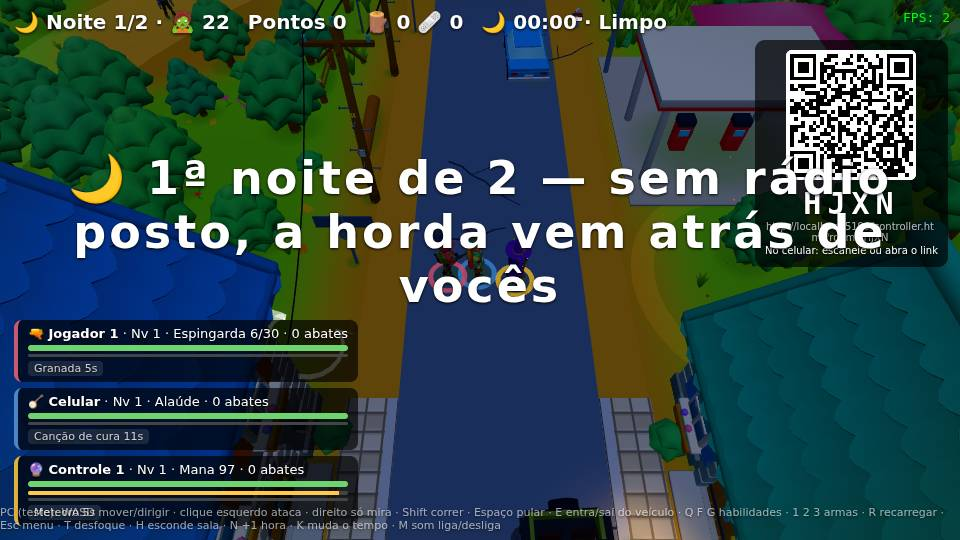
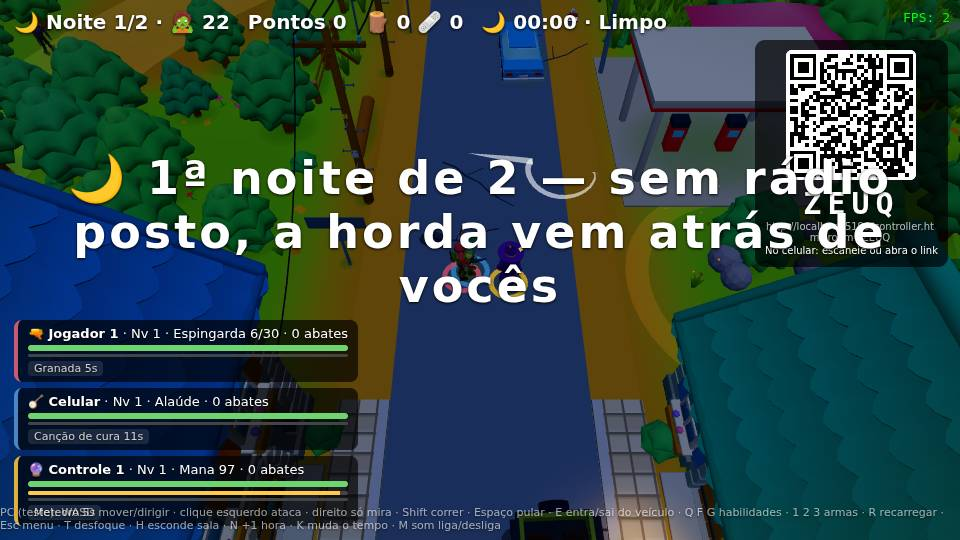
Menu automático: cada aparelho entra sozinho e a vaga só mostra qual é
- Saem os botões "Celular" e "Mouse e teclado"; vaga vazia mostra "Livre"
- Celular pelo QR, teclado/mouse com tecla de jogo (WASD, setas, espaço) ou clique numa área vazia, controle com qualquer botão
- Mexer o mouse ou clicar em botões do menu não cria jogador (decisão do dono); [data-nojoin] para o seletor de cerco
- Smoke: teclado entra com W; controle de mentira segura o botão até o efeito aparecer
- Replay igual

diff --git a/src/engine/ui/lobby.js b/src/engine/ui/lobby.js
@@ -12,7 +12,7 @@ const MARKUP = (sub) => `<div id="lobby">
         <p class="sub">${sub}</p>
         <div id="slots"></div>
         <button id="start" disabled>Adicione um jogador para iniciar</button>
-        <small>Escolha o controle de cada jogador · 🎮 controle de videogame: aperte A · Enter (ou Start) inicia · Esc volta ao menu durante a partida</small>
+        <small>Para entrar: 📱 celular pelo QR · ⌨ uma tecla de jogo (W A S D, setas, espaço) ou um clique fora dos botões · 🎮 qualquer botão do controle · Enter (ou Start) inicia · Esc volta ao menu</small>
       </div>
       <div class="lb-side">
         <canvas id="qr2" width="180" height="180"></canvas>
@@ -59,11 +59,12 @@ function ensureDom(sub) {
   }
 }
 
-// Menu inicial: 4 vagas; cada vaga é "Celular" (entra pelo QR/código), "Mouse e teclado" (jogador local) ou um controle de
-// videogame (entra sozinho quando aperta A: addPad).
+// Menu inicial: 4 vagas. Ninguém escolhe o aparelho: cada um entra sozinho na 1ª vaga livre, na ordem de chegada —
+// celular pelo QR (addPhone), controle de videogame com qualquer botão (addPad) e teclado/mouse com uma tecla de jogo
+// (W A S D, setas, espaço) ou um clique fora dos botões. A vaga mostra o aparelho (📱 ⌨ 🎮), o nome e a opção; ✕ tira.
 // O jogo passa: choices = opções que cada vaga pode escolher com ◀ ▶ (ex.: as classes; a vaga N começa na opção N)
 // · sound(nome, opções) = som da interface · subtitle = frase do menu.
-// Trocar a opção: setas na vaga (mouse), A/D ou ←/→ (teclado, na vaga do teclado), pick(id, ±1) (celular, via jogo).
+// Trocar a opção: setas na vaga (mouse), A/D ou ←/→ (teclado, depois de entrar), pick(id, ±1) (celular e controle, via jogo).
 export function CreateLobby({ onStart, onKick, onChange, choices = [], sound = () => {}, subtitle = '' }) {
   ensureDom(subtitle)
   const slots = [null, null, null, null] // { type: 'phone' | 'kb' | 'pad', id, name, choice }
@@ -83,9 +84,7 @@ export function CreateLobby({ onStart, onKick, onChange, choices = [], sound = (
       const arrow = (a, t) => (s && choices.length > 1 ? `<button class="pk" data-a="${a}" data-i="${i}" title="Trocar">${t}</button>` : '')
       const label = choices.length ? choices[pickOf(i)] : ''
       const head = `<div class="slot" style="--c:${COLORS[i]}"><div class="sn">JOGADOR ${i + 1} · ${arrow('prev', '◀')}<span style="color:${COLORS[i]}">${label}</span>${arrow('next', '▶')}</div>`
-      if (!s) {
-        return `${head}<div class="opts"><button data-a="phone" data-i="${i}">📱 Celular</button><button data-a="kb" data-i="${i}" ${hasKb() ? 'disabled title="Só um jogador pode usar mouse e teclado"' : ''}>⌨ Mouse e teclado</button></div></div>`
-      }
+      if (!s) return `${head}<div class="st wait">Livre</div><div class="st" style="opacity:.6;font-size:12.5px">📱 QR · ⌨ tecla ou clique · 🎮 botão</div></div>`
       const x = `<button class="x" data-a="del" data-i="${i}" title="Remover">✕</button>`
       if (s.type === 'kb') return `${head}${x}<input data-name="${i}" value="${esc(s.name)}" maxlength="12" /><div class="st">⌨ Mouse e teclado · pronto</div></div>`
       if (s.type === 'pad') return `${head}${x}<div style="font-weight:700;font-size:18px">${esc(s.name)}</div><div class="st">🎮 Controle conectado · pronto (◀ ▶ trocam)</div></div>`
@@ -103,9 +102,7 @@ export function CreateLobby({ onStart, onKick, onChange, choices = [], sound = (
     const i = +b.dataset.i, a = b.dataset.a
     sound('ui', { f: a === 'del' ? 520 : a === 'prev' || a === 'next' ? 700 : 880 })
     if (a === 'prev' || a === 'next') return cycle(i, a === 'prev' ? -1 : 1)
-    if (a === 'phone' && !slots[i]) slots[i] = { type: 'phone', id: null, name: '' }
-    else if (a === 'kb' && !slots[i] && !hasKb()) slots[i] = { type: 'kb', id: 'local', name: `Jogador ${i + 1}` }
-    else if (a === 'del') {
+    if (a === 'del') {
       const s = slots[i]
       slots[i] = null
       if (s && s.id && s.type !== 'kb') onKick(s.id) // celular: avisa · controle: pode entrar de novo
@@ -117,12 +114,27 @@ export function CreateLobby({ onStart, onKick, onChange, choices = [], sound = (
     if (i !== undefined && slots[+i]) slots[+i].name = e.target.value.trim().slice(0, 12) || `Jogador ${+i + 1}`
   })
   const start = () => { const list = entries(); if (list.length && !el.classList.contains('hidden')) onStart(list) }
+  // teclado/mouse entra sozinho (uma vez): 1ª vaga livre
+  function joinKeyboard() {
+    if (hasKb() || el.classList.contains('hidden')) return false
+    const i = slots.findIndex((s) => !s)
+    if (i < 0) return false
+    slots[i] = { type: 'kb', id: 'local', name: `Jogador ${i + 1}` }
+    sound('join')
+    render(); onChange()
+    return true
+  }
+  const JOIN_KEYS = new Set(['w', 'a', 's', 'd', 'arrowup', 'arrowdown', 'arrowleft', 'arrowright', ' '])
+  // clique fora dos botões (área vazia do menu ou de uma vaga) também entra; [data-nojoin] = área do jogo que não conta (ex.: um seletor)
+  el.addEventListener('click', (e) => { if (!e.target.closest('button, input, canvas, a, select, [data-nojoin]')) joinKeyboard() })
   $('#start').addEventListener('click', start)
   addEventListener('keydown', (e) => {
     if (e.key === 'Enter' && e.target.tagName !== 'BUTTON') return start()
     // teclado troca a opção da própria vaga
     if (el.classList.contains('hidden') || e.target.tagName === 'INPUT' || e.repeat) return
-    const k = e.key.toLowerCase(), d = k === 'a' || k === 'arrowleft' ? -1 : k === 'd' || k === 'arrowright' ? 1 : 0
+    const k = e.key.toLowerCase()
+    if (!hasKb() && JOIN_KEYS.has(k)) { if (k === ' ') e.preventDefault(); joinKeyboard(); return } // a tecla que entra não troca a classe
+    const d = k === 'a' || k === 'arrowleft' ? -1 : k === 'd' || k === 'arrowright' ? 1 : 0
     const i = slots.findIndex((s) => s && s.type === 'kb')
     if (d && i >= 0) { sound('ui', { f: 700 }); cycle(i, d) }
   })
@@ -163,6 +175,7 @@ export function CreateLobby({ onStart, onKick, onChange, choices = [], sound = (
       return i
     },
     has: (id) => slots.some((s) => s && s.id === id),
+    joinKeyboard, // teclado/mouse entra (o menu já faz isso sozinho com tecla de jogo ou clique)
     start, // começar a partida (o Start do controle faz o mesmo que o Enter)
     removeId(id) {
       const i = slots.findIndex((s) => s && s.id === id)

diff --git a/src/engine/input/gamepad.js b/src/engine/input/gamepad.js
@@ -1,6 +1,6 @@
 // Controles de videogame (Gamepad API): cada controle ligado no PC vira um jogador, com o mesmo contrato do celular e do teclado.
 // Botões no padrão "standard" do navegador (Xbox / PlayStation): a b x y lb rb lt rt back start l3 r3 up down left right home.
-// O jogo passa: join(id) quando um controle novo aperta A ou Start (false = não entrou) · button(id, nome) a cada aperto
+// O jogo passa: join(id) quando um controle novo aperta qualquer botão (false = não entrou) · button(id, nome) a cada aperto
 // · input(id, { mx, mz, ax, az, run }) a cada quadro (stick esquerdo anda, direito mira; LT ou clicar o stick esquerdo = correr)
 // · leave(id) quando o controle é desligado. id = 'pad0'…'pad3'.
 const NAMES = ['a', 'b', 'x', 'y', 'lb', 'rb', 'lt', 'rt', 'back', 'start', 'l3', 'r3', 'up', 'down', 'left', 'right', 'home']
@@ -25,7 +25,7 @@ export function CreateGamepads({ join, button, input, leave = () => {} }) {
         down.forEach((d, i) => {
           if (!d || s.prev[i] || !NAMES[i]) return
           if (s.joined) button(s.id, NAMES[i])
-          else if (NAMES[i] === 'a' || NAMES[i] === 'start') s.joined = join(s.id) !== false // o aperto que entra não vira ação
+          else s.joined = join(s.id) !== false // qualquer botão entra; o aperto que entra não vira ação
         })
         s.prev = down
         if (s.joined) input(s.id, { mx: dz(gp.axes[0]), mz: dz(gp.axes[1]), ax: dz(gp.axes[2]), az: dz(gp.axes[3]), run: down[6] || down[10] ? 1 : 0 })
@@ -37,7 +37,7 @@ export function CreateGamepads({ join, button, input, leave = () => {} }) {
       const v = gp && gp.vibrationActuator
       if (v && v.playEffect) v.playEffect('dual-rumble', { duration: ms, strongMagnitude: strength, weakMagnitude: strength * 0.6 }).catch(() => {})
     },
-    // saiu da vaga (removido no menu): o próximo A ou Start entra de novo
+    // saiu da vaga (removido no menu): o próximo botão entra de novo
     forget(id) { for (const s of state.values()) if (s.id === id) s.joined = false },
   }
 }

diff --git a/index.html b/index.html
@@ -15,7 +15,7 @@
         <p class="sub">Sobreviva aos zumbis · até 4 jogadores</p>
         <div id="slots"></div>
         <button id="start" disabled>Adicione um jogador para iniciar</button>
-        <small>Escolha o controle de cada jogador · 🎮 controle de videogame: aperte A · Enter (ou Start) inicia · Esc volta ao menu durante a partida</small>
+        <small>Para entrar: 📱 celular pelo QR · ⌨ uma tecla de jogo (W A S D, setas, espaço) ou um clique fora dos botões · 🎮 qualquer botão do controle · Enter (ou Start) inicia · Esc volta ao menu</small>
       </div>
       <div class="lb-side">
         <canvas id="qr2" width="180" height="180"></canvas>

diff --git a/src/games/survivor/ui/cercos.js b/src/games/survivor/ui/cercos.js
@@ -22,6 +22,7 @@ export function CreateCercoPicker(save) {
   document.head.appendChild(st)
   const box = document.createElement('div')
   box.id = 'cercos'
+  box.dataset.nojoin = '1' // clicar aqui escolhe o cerco, não faz o teclado entrar
   box.innerHTML = '<button id="cprev">◀</button><b id="cname"></b><button id="cnext">▶</button><small id="copen"></small>'
   // na mesma linha do botão da Coleção (o menu não cresce)
   const col = document.querySelector('#colbtn')

diff --git a/CLAUDE.md b/CLAUDE.md
@@ -37,8 +37,8 @@ Endereço do relay no navegador: `VITE_WS_URL` se existir; senão `ws(s)://<mesm
      (o Vite e o Three.js também sorteiam, e isso mudaria com a ordem dos arquivos). `SIM_TRACE=arquivo node scripts/sim.mjs` grava o rastro
      quadro a quadro para achar onde dois replays se separam.
 - `npm run smoke` — teste automático (~3 min). Compila o jogo, sobe relay **8099** e página **5199** (não briga com o dev/server do dono),
-  abre no Chromium sem tela, entra 1 teclado (Atirador; aperta D e A no menu) + 1 celular simulado (troca para Bardo com ▶ ▶)
-  + 1 controle de videogame de mentira (`navigator.getGamepads` trocado; entra com A, ▶ ◀ no direcional, fica Mago), confere as classes, joga 60 s (anda, atira, habilidades, carro, noite),
+  abre no Chromium sem tela, entra 1 teclado (aperta W: entra sozinho; Atirador; aperta D e A no menu) + 1 celular simulado (troca para Bardo com ▶ ▶)
+  + 1 controle de videogame de mentira (`navigator.getGamepads` trocado; entra com A, ▶ ◀ no direcional, fica Mago; cada botão fica apertado até o efeito aparecer — sem GPU um quadro pode levar segundos), confere as classes, joga 60 s (anda, atira, habilidades, carro, noite),
   aperta Esc e confere a volta ao menu. **Falha se aparecer qualquer `console.error` ou erro de página.** Capturas e log em `smoke/` (versionados: o PR mostra as capturas).
   Script: `scripts/smoke.mjs`. Sem GPU o jogo roda a 1–2 FPS → 60 s reais ≈ 6 s de jogo. Pega erro de carregar/iniciar/botões, não bugs de longo prazo.
 - `docs/TESTE-MANUAL.md` — checklist de 5 min que o dono roda depois de cada PR (inclui anotar FPS). Peça para ele rodar.
@@ -65,7 +65,8 @@ src/engine/               genérico
   audio/engine.js         Web Audio: barramentos, primitivas, som posicional
   world/                  noise.js (hash/ruído), collision.js (grade de colisão), chunks.js (carrega/descarrega chunks),
                           pathing.js (desvio, A*, rota dentro de casas) — chunks.js é instância (CreateChunks)
-  ui/lobby.js             menu de 4 vagas (celular ou teclado); cada vaga escolhe uma opção com ◀ ▶ (choices vêm do jogo); setSubtitle()
+  ui/lobby.js             menu de 4 vagas; cada aparelho entra sozinho (celular pelo QR, teclado com tecla de jogo/clique, controle com botão);
+                          cada vaga escolhe uma opção com ◀ ▶ (choices vêm do jogo); setSubtitle(); [data-nojoin] = área que não faz o teclado entrar
 src/shared/               peças prontas
   characters/             player.js (esqueleto/animação; p.knocked = caído por um instante), looks.js (visual), kits.js (armas + IK), player-movement.js
   creatures/zombie-model.js  humanoide articulado (12 variações), base dos zumbis; look(material), e.puff (encher o peito)
@@ -146,7 +147,7 @@ Teclado e celular usam exatamente o mesmo formato. Não mude sem pedir.
 - Jogador do teclado tem id `'local'`. Bots de teste têm id `bot1`…`bot3` e usam o mesmo contrato (`games/survivor/bots.js`).
 - Controle de videogame (J14): id `pad0`…`pad3`; `engine/input/gamepad.js` lê a cada quadro e entrega `input` (stick esquerdo = mx/mz,
   direito = ax/az, LT ou L3 = run) e `button` (nomes do padrão). O `main.js` traduz: A jump · B shove · X use · LB b1 · RB b2 · Y b3 ·
-  direcional ◀ ▲ ▶ = up1/up2/up3 (cartas, mostradas na TV). No menu: A ou Start entra (`lobby.addPad`), ◀ ▶ trocam a classe, Start começa.
+  direcional ◀ ▲ ▶ = up1/up2/up3 (cartas, mostradas na TV). No menu: qualquer botão entra (`lobby.addPad`), ◀ ▶ trocam a classe, Start começa.
   Mensagens das regras para "celulares" com id `pad…` não vão ao relay: `hit` vira tremida (`rumble`), o resto é ignorado.
 
 ## Decisões tomadas (não reabra sem perguntar ao dono)
@@ -291,8 +292,11 @@ F2 estado global → instâncias com `reset()` + caches limpos por distância (m
 ## Histórico de PRs
 - **limpeza** — `node_modules/` fora do Git; `.gitignore` aceita .glb/.gltf; `player-moviment.js` → `player-movement.js`; README sem `reflections.js`;
   `npm run smoke`; este CLAUDE.md; `docs/COMO-FUNCIONA.md`; `docs/TESTE-MANUAL.md`. Nenhuma mudança no jogo.
+- **menu-automatico** — pedido do dono: o menu não pergunta mais o aparelho. Cada um entra sozinho na 1ª vaga livre: celular pelo QR,
+  teclado/mouse com tecla de jogo (W A S D, setas, espaço) ou clique numa área vazia (mexer o mouse ou clicar em botões não conta — decisão
+  do dono, para não criar jogador de teclado "fantasma"), controle com qualquer botão (antes só A/Start). A vaga mostra 📱 ⌨ 🎮; ✕ tira.
 - **j14-controle (J14)** — controle de Xbox/PlayStation no PC (Gamepad API) vira jogador com o mesmo contrato do celular: A ou Start entra
-  no menu (vaga "🎮 Controle"), ◀ ▶ trocam a classe, Start começa; na partida sticks andam/miram, A pula, B empurra, X usa, LB/RB/Y botões da
+  no menu (vaga "🎮 Controle"; desde o menu-automatico, qualquer botão), ◀ ▶ trocam a classe, Start começa; na partida sticks andam/miram, A pula, B empurra, X usa, LB/RB/Y botões da
   classe, LT corre, direcional escolhe as cartas (na TV); vibra ao levar dano. Pode entrar no meio da partida. Smoke ganhou um controle de mentira.
 - **j12b-cercos (J12b)** — 5 cercos escolhidos no menu (◀ ▶ / Q E), cada um numa paróquia da N-550: 1 San Xoán de Vilar (a largada,
   2 noites), 2 Santa Mariña de Cerdeira (3 noites), 3 Santiago de Moreira (Labrego desde a 1ª noite), 4 San Martiño de Lamas (menos saque),

diff --git a/docs/TESTE-MANUAL.md b/docs/TESTE-MANUAL.md
@@ -11,9 +11,9 @@ Você precisa de **1 celular** e do teclado do PC. Para o item 12 (4 jogadores),
 ## Checklist
 | # | Teste | O que você deve ver | ✓ |
 |---|---|---|---|
-| 1 | **Menu** abre | 4 vagas (Atirador, Samurai, Mago, Bardo), QR code, código de 4 letras e "Servidor conectado" em verde | ☐ |
+| 1 | **Menu** abre | 4 vagas "Livre" (sem botões de escolher aparelho), QR code, código de 4 letras e "Servidor conectado" em verde | ☐ |
 | 2 | **Entrar pelo celular** (QR code) e trocar a classe com ◀ ▶ | O celular mostra "Você é o Jogador N" e a classe. Ao tocar ▶, a classe muda no celular e no PC | ☐ |
-| 3 | **Entrar pelo teclado** e trocar a classe com A/D | Clique "⌨ Mouse e teclado" numa vaga livre → "pronto". A e D trocam a classe. Escolha a mesma do celular: os dois entram iguais, cada um com o anel da sua cor no chão. Enter inicia | ☐ |
+| 3 | **Entrar pelo teclado** e trocar a classe com A/D | No menu, aperte W (ou clique numa área vazia do menu): o teclado entra sozinho na vaga livre → "⌨ Mouse e teclado · pronto". Só mexer o mouse ou clicar em Iniciar/Coleção/cerco **não** cria jogador. A e D trocam a classe. Escolha a mesma do celular: os dois entram iguais, cada um com o anel da sua cor no chão. Enter inicia | ☐ |
 | 4 | **Atirador**: clique atira, 1/2/3 trocam a arma, R recarrega, G joga a granada | Tiros, cápsulas, explosão. Munição muda no placar | ☐ |
 | 5 | **Samurai**: clique faz o combo de 3 golpes, Q investida, F redemoinho | O 3º golpe derruba. A investida atravessa os zumbis | ☐ |
 | 6 | **Mago**: clique solta o dardo, Q meteoro, F nova de gelo | O dardo persegue o zumbi. Barra azul de mana desce e volta | ☐ |
@@ -38,7 +38,7 @@ Você precisa de **1 celular** e do teclado do PC. Para o item 12 (4 jogadores),
 | 24 | **Santa Compaña**: na 2ª noite, aperte N até meia-noite (perto da base) | "🕯 Meia-noite: a Santa Compaña chegou!", sino e cântico; 6 almas brancas com velas e o Guia escuro com a cruz dando a volta na casa; placar "🕯 velas 6/6". Atire no Guia: "✝ A cruz protege o Guia". Mate as almas (as velas apagam) até "derrubem o Guia!" e derrube-o: "✝ A Santa Compaña se desfez! +50 XP". Encoste na fila: fica lento e "🕯 marcado" no placar | ☐ |
 | 25 | **Progresso**: abra o jogo com `?zerar` no fim do endereço, jogue uma partida até o fim (pode perder) e volte ao menu | No menu: "⛪ Paróquia nível 1 · 🗝 16/28 melhorias · ⭐ 0/30 achados". No fim da partida: "⛪ Paróquia: +N XP". De volta ao menu, o nível sobe com o tempo e as melhorias liberadas aumentam. Aperte **C** no menu: a Coleção abre (achados que faltam como "???"). Achando um ⭐ no saque: a história aparece embaixo e você escolhe uma melhoria. Feche e abra o navegador: o progresso continua | ☐ |
 | 26 | **Cercos**: no menu, veja a barra "◀ Cerco 1 · San Xoán de Vilar — 2 noites ▶" e aperte E | Com save novo só o Cerco 1 está liberado ("🔒 vença o Cerco 1 para liberar o 2"). Vença o Cerco 1 (dá para adiantar com N): no resultado, "🏆 Cerco 2 liberado: Santa Mariña de Cerdeira!". No menu, E escolhe o Cerco 2; ao começar, vocês estão em outra vila, o rádio fala o nome da paróquia e são 3 noites ("Noite 1/3") | ☐ |
-| 27 | **Controle de videogame** (se tiver um): ligue no PC e, no menu, aperte A | Aparece uma vaga "🎮 Controle 1 · pronto". ◀ ▶ do direcional trocam a classe; Start começa. Na partida: stick esquerdo anda, direito mira e ataca, A pula, B empurra, X revista/barrica, LB/RB/Y são os botões da classe, LT corre. Ao subir de nível, as cartas aparecem na TV com ◀ ▲ ▶ e o direcional escolhe. Ao levar dano, o controle vibra | ☐ |
+| 27 | **Controle de videogame** (se tiver um): ligue no PC e, no menu, aperte qualquer botão | Aparece uma vaga "🎮 Controle 1 · pronto". ◀ ▶ do direcional trocam a classe; Start começa. Na partida: stick esquerdo anda, direito mira e ataca, A pula, B empurra, X revista/barrica, LB/RB/Y são os botões da classe, LT corre. Ao subir de nível, as cartas aparecem na TV com ◀ ▲ ▶ e o direcional escolhe. Ao levar dano, o controle vibra | ☐ |
 
 Para testar outra classe pelo teclado: Esc → no menu, aperte A ou D → Enter.
 

diff --git a/README.md b/README.md
@@ -20,7 +20,7 @@ Teste sem celular: WASD + mouse (clique esquerdo ataca, direito só mira), E ent
 Testar sozinho com 4 classes: abra o jogo com **`?bots=3`** no fim do endereço (3 jogadores do computador ocupam as vagas livres; tecla **B** espalha/junta, para ver a tela dividida). Só para teste.
 
 ## Controle de videogame (Xbox / PlayStation)
-Ligue o controle no PC (USB ou Bluetooth). No menu, aperte **A** (ou **Start**): ele ocupa uma vaga livre como "🎮 Controle". **◀ ▶** do direcional trocam a classe e **Start** começa a partida. Na partida: **stick esquerdo** anda · **stick direito** mira (e ataca enquanto inclinado) · **A** pula · **B** empurra · **X** usa (revistar, barricar, levantar, carro) · **LB / RB / Y** são os botões da classe · **LT** corre · ao subir de nível, as cartas aparecem na TV e o **direcional ◀ ▲ ▶** escolhe. O controle vibra ao levar dano. Dá para entrar no meio da partida. Código em `src/engine/input/gamepad.js`.
+Ligue o controle no PC (USB ou Bluetooth). No menu, aperte **qualquer botão**: ele ocupa uma vaga livre como "🎮 Controle". **◀ ▶** do direcional trocam a classe e **Start** começa a partida. Na partida: **stick esquerdo** anda · **stick direito** mira (e ataca enquanto inclinado) · **A** pula · **B** empurra · **X** usa (revistar, barricar, levantar, carro) · **LB / RB / Y** são os botões da classe · **LT** corre · ao subir de nível, as cartas aparecem na TV e o **direcional ◀ ▲ ▶** escolhe. O controle vibra ao levar dano. Dá para entrar no meio da partida. Código em `src/engine/input/gamepad.js`.
 
 ## Controles do celular
 Na espera do menu: **◀ ▶** trocam a classe. Na partida: stick esquerdo = mover (ou dirigir) · stick direito = mirar (ataca enquanto inclinado) · botões da classe (nome e recarga vêm do jogo) · 🚗 aparece perto de um veículo (Entrar/Sair) · Correr · Pular · **Empurrar** (pisca quando um zumbi agarra).
@@ -124,7 +124,7 @@ Todo som é sintetizado na hora com Web Audio (osciladores, ruído, filtros e co
 3. Defina `VITE_WS_URL=wss://seu-servidor.exemplo.com` antes do build.
 
 ## Menu inicial (lobby)
-Ao abrir o jogo aparece o menu com 4 vagas. Em cada vaga escolha **📱 Celular** (o jogador entra pelo QR code/código) ou **⌨ Mouse e teclado** (só uma vaga). Quem entra pelo celular já ocupa uma vaga sozinho. Cada vaga ocupada mostra **◀ classe ▶**: troque com o mouse, com **A/D** (ou ←/→) no teclado, ou com ◀ ▶ na tela de espera do celular. **Enter** inicia; **Esc** durante a partida (ou o fim de jogo) volta ao menu.
+Ao abrir o jogo aparece o menu com 4 vagas. **Ninguém escolhe o aparelho: cada um entra sozinho** na 1ª vaga livre, na ordem de chegada — **📱 celular** pelo QR code/código, **⌨ teclado e mouse** com uma tecla de jogo (W A S D, setas, espaço) ou um clique numa área vazia do menu (só mexer o mouse ou clicar em botões não conta; só uma vaga de teclado), **🎮 controle** com qualquer botão. A vaga mostra o aparelho; ✕ tira. Cada vaga ocupada mostra **◀ classe ▶**: troque com o mouse, com **A/D** (ou ←/→) no teclado, ou com ◀ ▶ na tela de espera do celular. **Enter** inicia; **Esc** durante a partida (ou o fim de jogo) volta ao menu.
 
 ## Split screen
 Jogadores perto (< 13 unidades) dividem uma tela só; ao se afastar (> 19) ela se divide. Layout pelo número de telas: 2 = linha vertical · 3 = duas em cima + uma embaixo · 4 = 2x2. Quem cai assiste pela tela do grupo vivo mais próximo. Ajustes em `src/engine/render/splitscreen.js` (`MERGE`, `SPLIT`, `GAP`).
